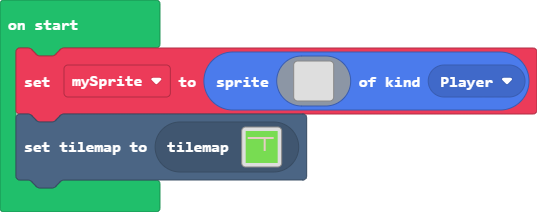
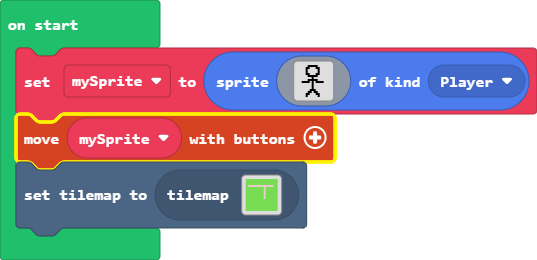
Update main.blocks, main.ts

diff --git a/main.ts b/main.ts
@@ -1,19 +1,20 @@
 let mySprite = sprites.create(img`
-    . . . . . . . . . . . . . . . . 
-    . . . . . . . . . . . . . . . . 
-    . . . . . . . . . . . . . . . . 
-    . . . . . . . . . . . . . . . . 
-    . . . . . . . . . . . . . . . . 
-    . . . . . . . . . . . . . . . . 
-    . . . . . . . . . . . . . . . . 
-    . . . . . . . . . . . . . . . . 
-    . . . . . . . . . . . . . . . . 
-    . . . . . . . . . . . . . . . . 
-    . . . . . . . . . . . . . . . . 
-    . . . . . . . . . . . . . . . . 
-    . . . . . . . . . . . . . . . . 
-    . . . . . . . . . . . . . . . . 
-    . . . . . . . . . . . . . . . . 
-    . . . . . . . . . . . . . . . . 
+    . . . . . f f f f f . . . . . . 
+    . . . . f f . . . f f . . . . . 
+    . . . . f . . . . . f . . . . . 
+    . . . . f . . . . . f . . . . . 
+    . . . . f f . . . f f . . . . . 
+    . . . . . f f f f f . . . . . . 
+    . . . . . . . f . . . . . . . . 
+    . . . . . f f f f f . . . . . . 
+    . . f f f f . f . f f f f . . . 
+    . . . . . . . f . . . . . . . . 
+    . . . . . . . f . . . . . . . . 
+    . . . . . . . f . . . . . . . . 
+    . . . . . . f f f . . . . . . . 
+    . . . . . f f . f f . . . . . . 
+    . . . . f f . . . f f . . . . . 
+    . . . . f . . . . . f . . . . . 
     `, SpriteKind.Player)
+controller.moveSprite(mySprite)
 tiles.setCurrentTilemap(tilemap`level2`)
